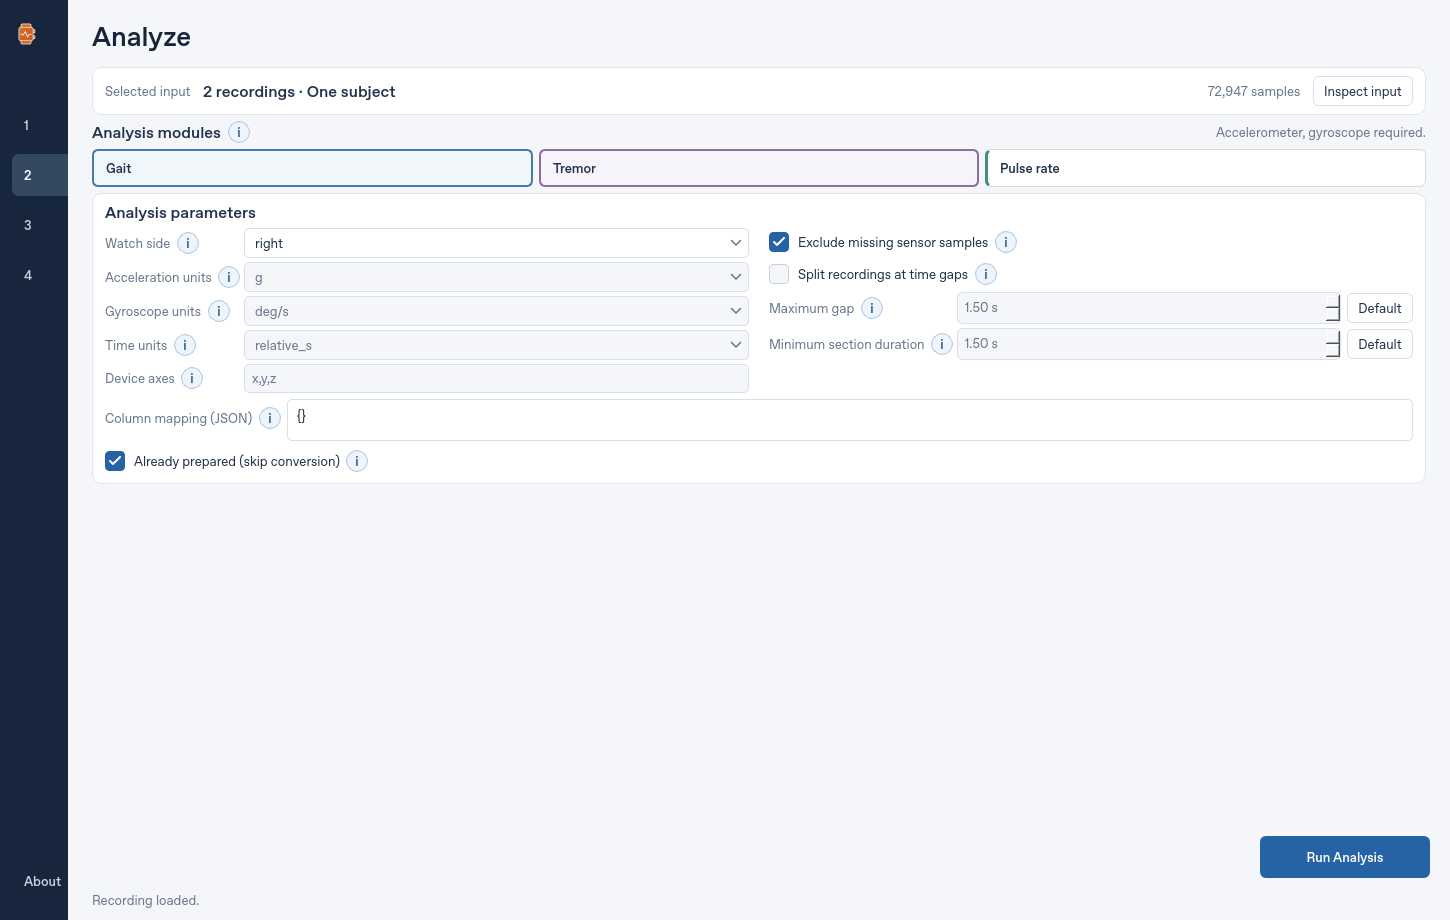
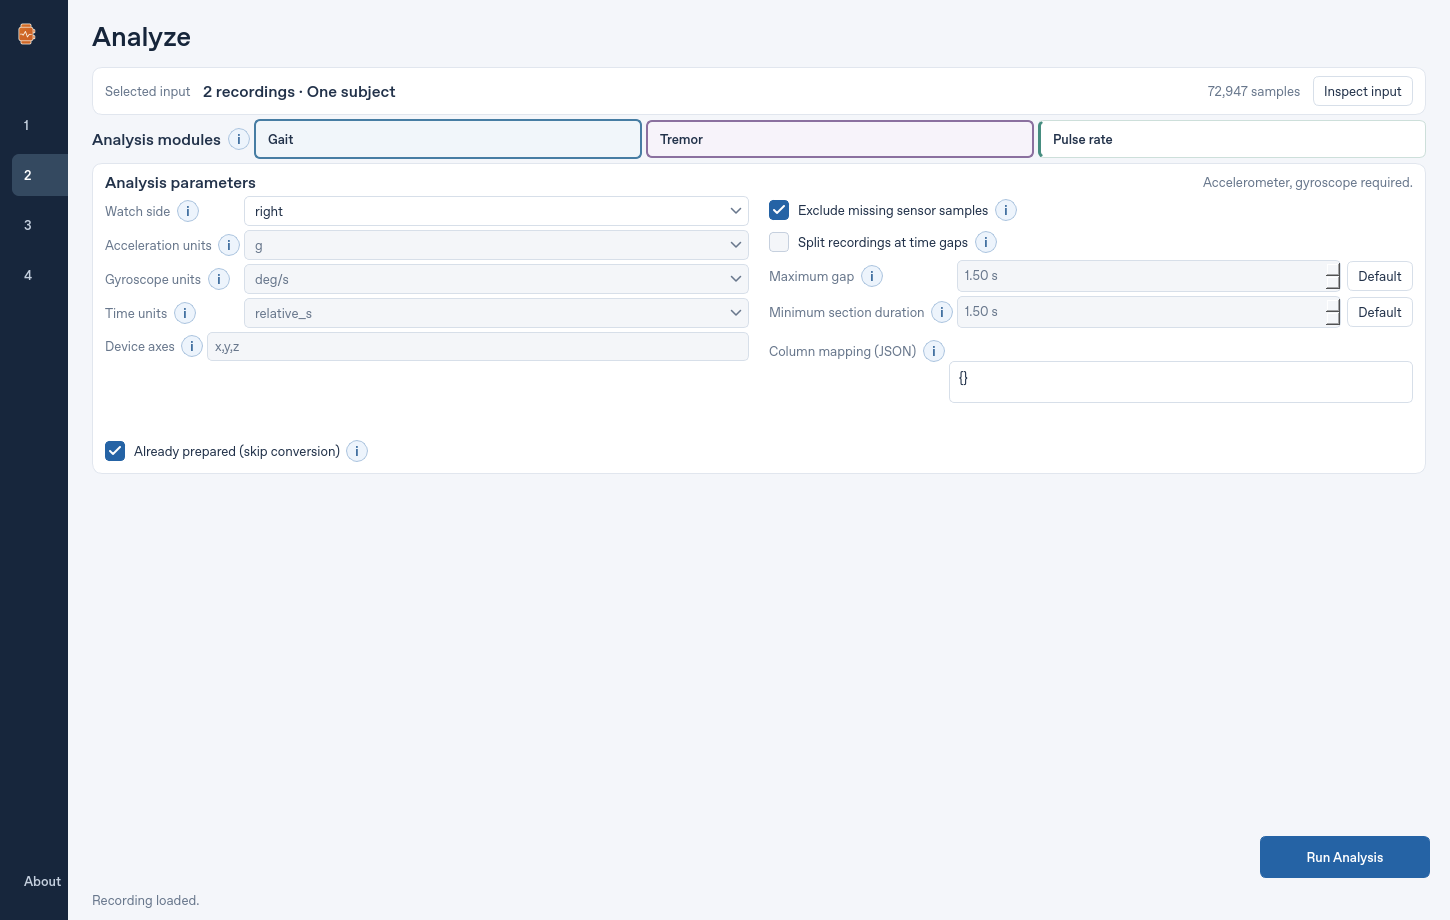
Fit Analyze parameters with larger Windows control sizes

Changed region(s): [[0.0621, 0.1217, 0.9931, 0.4261], [0.0621, 0.4565, 0.2483, 0.5174], [0.1552, 0.4261, 0.2172, 0.4565]]

diff --git a/src/paradigma_desktop/app.py b/src/paradigma_desktop/app.py
@@ -342,7 +342,7 @@ class MainWindow(QMainWindow):
         body.setObjectName("analysisBody")
         content = QVBoxLayout(body)
         content.setContentsMargins(0, 0, 4, 0)
-        content.setSpacing(6)
+        content.setSpacing(4)
         panel, input_layout = card()
         input_layout.setContentsMargins(12, 8, 12, 8)
         input_row = QHBoxLayout()
@@ -357,15 +357,12 @@ class MainWindow(QMainWindow):
         self.analysis_controls = QWidget()
         controls = QVBoxLayout(self.analysis_controls)
         controls.setContentsMargins(0, 0, 0, 0)
-        controls.setSpacing(6)
+        controls.setSpacing(4)
         self.analysis_help = {}
-        module_header = QHBoxLayout()
-        module_header.addWidget(self.analysis_field("Analysis modules", label("Analysis modules", "sectionTitle"), inline=True))
+        modules = QHBoxLayout()
+        modules.addWidget(self.analysis_field("Analysis modules", label("Analysis modules", "sectionTitle"), inline=True))
         self.module_requirements = label("", "muted")
         self.module_requirements.setAlignment(Qt.AlignRight | Qt.AlignVCenter)
-        module_header.addWidget(self.module_requirements, 1)
-        controls.addLayout(module_header)
-        modules = QHBoxLayout()
         self.module_buttons = {}
         for name in ("Gait", "Tremor", "Pulse rate"):
             item = button(name)
@@ -378,8 +375,11 @@ class MainWindow(QMainWindow):
         controls.addLayout(modules)
         self.settings_panel, parameters = card()
         parameters.setContentsMargins(12, 8, 12, 8)
-        parameters.setSpacing(6)
-        parameters.addWidget(label("Analysis parameters", "sectionTitle"))
+        parameters.setSpacing(4)
+        parameter_header = QHBoxLayout()
+        parameter_header.addWidget(label("Analysis parameters", "sectionTitle"))
+        parameter_header.addWidget(self.module_requirements, 1)
+        parameters.addLayout(parameter_header)
         columns = QHBoxLayout()
         columns.setSpacing(20)
         left = QFormLayout()
@@ -396,8 +396,7 @@ class MainWindow(QMainWindow):
             widget.setMinimumWidth(160)
         self.orientation = QLineEdit("x,y,z")
         for title, widget in (("Watch side", self.side), ("Acceleration units", self.acc),
-                              ("Gyroscope units", self.gyro), ("Time units", self.time),
-                              ("Device axes", self.orientation)):
+                              ("Gyroscope units", self.gyro), ("Time units", self.time)):
             self.analysis_field(title, widget, form=left)
         self.prepared = QCheckBox("Already prepared (skip conversion)")
         self.gaps = QCheckBox("Split recordings at time gaps")
@@ -438,11 +437,20 @@ class MainWindow(QMainWindow):
         self.mapping = QPlainTextEdit("{}")
         self.mapping.setPlaceholderText('{"timestamp": "time", "ppg": "green"}')
         self.mapping.setFixedHeight(42)
-        mapping_form = QFormLayout()
-        mapping_form.setRowWrapPolicy(QFormLayout.WrapLongRows)
-        mapping_form.setFieldGrowthPolicy(QFormLayout.AllNonFixedFieldsGrow)
+        # Share the last row instead of making device axes a fifth tall native
+        # control row. Preserve room for Windows label and checkbox size hints.
+        input_fields = QHBoxLayout()
+        input_fields.setSpacing(20)
+        axes_form, mapping_form = QFormLayout(), QFormLayout()
+        for form in (axes_form, mapping_form):
+            form.setRowWrapPolicy(QFormLayout.WrapLongRows)
+            form.setFieldGrowthPolicy(QFormLayout.AllNonFixedFieldsGrow)
+            form.setSpacing(4)
+        self.analysis_field("Device axes", self.orientation, form=axes_form)
         self.analysis_field("Column mapping (JSON)", self.mapping, form=mapping_form)
-        parameters.addLayout(mapping_form)
+        input_fields.addLayout(axes_form, 1)
+        input_fields.addLayout(mapping_form, 1)
+        parameters.addLayout(input_fields)
         parameters.addWidget(self.analysis_field("Already prepared", self.prepared, inline=True))
         controls.addWidget(self.settings_panel)
         content.addWidget(self.analysis_controls)

diff --git a/tests/test_workspace.py b/tests/test_workspace.py
@@ -10,7 +10,7 @@ import pandas as pd
 import pytest
 from PySide6.QtTest import QTest
 from PySide6.QtGui import QColor, QPalette
-from PySide6.QtWidgets import QApplication, QComboBox, QTableView
+from PySide6.QtWidgets import QApplication, QCheckBox, QComboBox, QLabel, QPushButton, QTableView
 from PySide6.QtCore import Qt
 
 from paradigma_desktop import app as desktop
@@ -122,8 +122,8 @@ def test_run_button_remains_visible_in_compact_analysis_workspace(window):
     assert window.run_button.geometry().bottom() <= window.pages.widget(1).height()
 
 
-@pytest.mark.parametrize("control_minimum_height", [0, 40, 44])
-def test_compact_analysis_fits_all_parameters_and_uniform_help_without_scrolling(window, control_minimum_height):
+@pytest.mark.parametrize("control_minimum_height, larger_surrounding_controls", [(0, False), (40, False), (44, False), (44, True)])
+def test_compact_analysis_fits_all_parameters_and_uniform_help_without_scrolling(window, control_minimum_height, larger_surrounding_controls):
     window.loaded(("sensor.csv", pd.DataFrame({"time": [0., 1.], "gyroscope_x": [1., 2.]})))
     window.set_modules(["gait", "tremor", "pulse_rate"])
     # Larger native Windows control hints overflowed the previous layout even
@@ -131,6 +131,18 @@ def test_compact_analysis_fits_all_parameters_and_uniform_help_without_scrolling
     for control in (window.side, window.acc, window.gyro, window.time, window.orientation,
                     window.max_gap, window.min_segment):
         control.setMinimumHeight(control_minimum_height)
+    if larger_surrounding_controls:
+        # Input controls alone did not reproduce the Windows overflow. Native
+        # labels, checkboxes and action buttons also consume vertical space.
+        body = window.analysis_scroll.widget()
+        for control in body.findChildren(QLabel):
+            if control.objectName() != "fieldHelp":
+                control.setMinimumHeight(28)
+        for control in body.findChildren(QCheckBox):
+            control.setMinimumHeight(36)
+        for control in body.findChildren(QPushButton):
+            if control.objectName() != "helpInfo":
+                control.setMinimumHeight(44)
     window.navigate(1)
     window.resize(960, 650)
     window.show()

diff --git a/docs/SCIENTIFIC_TESTS.md b/docs/SCIENTIFIC_TESTS.md
@@ -165,6 +165,9 @@ removal of an origin without changing the selected elapsed-time interval.
 The compact-filter regression also forces wider native editor sizes to reproduce
 Windows clipping, and requires the entire fields and Apply/Reset buttons to remain
 visible. Results uses adaptive columns and scrolling rather than relaxing that check.
+Analyze is also checked at 960 × 650 with larger input controls, labels,
+checkboxes and buttons. All fields and uniform help buttons must remain visible
+without scrolling while help is closed; expanded guidance can scroll.
 
 Upstream's historical IMU preprocessing reference test is currently skipped
 because its stored output needs regeneration. This suite does not copy that

diff --git a/README.md b/README.md
@@ -83,5 +83,5 @@ pipeline publications. **About** in the app provides credits, the
 licence and a copyable BibTeX citation. [Full acknowledgement and citation files](src/paradigma_desktop/data/notices/ACKNOWLEDGEMENTS.md)
 are also included beside the Windows executable.
 
-Version **0.4.0**. Scientific processing uses the pinned official toolbox; the app's
+Version **0.4.1**. Scientific processing uses the pinned official toolbox; the app's
 regression tests check equivalent outputs for representative workflows.
